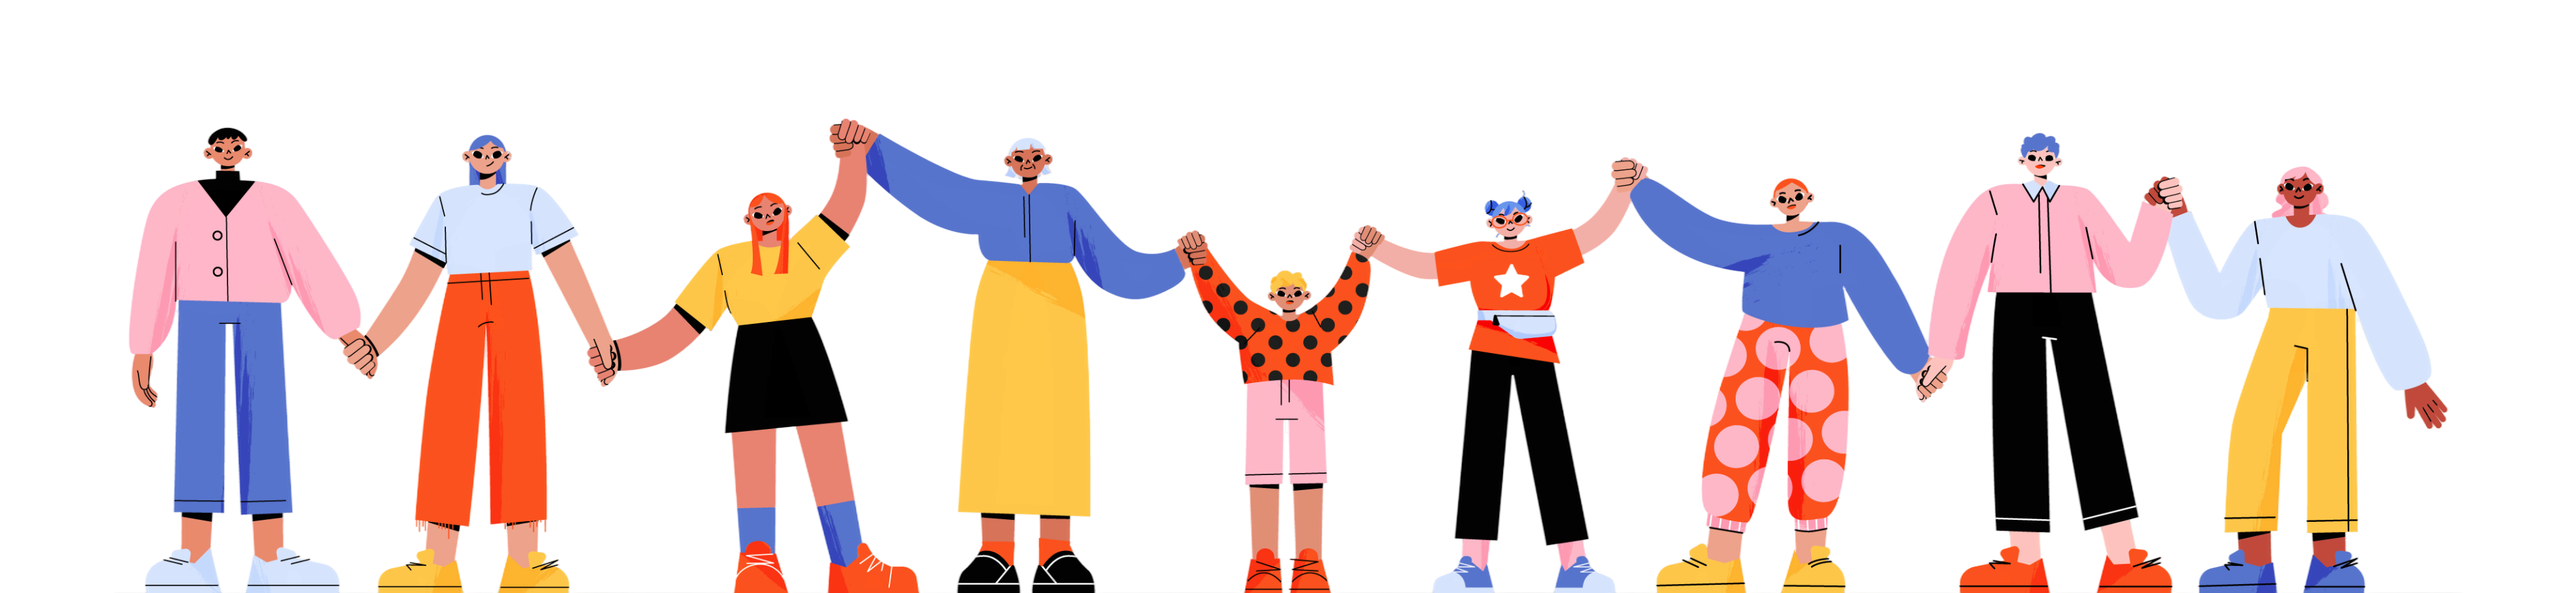
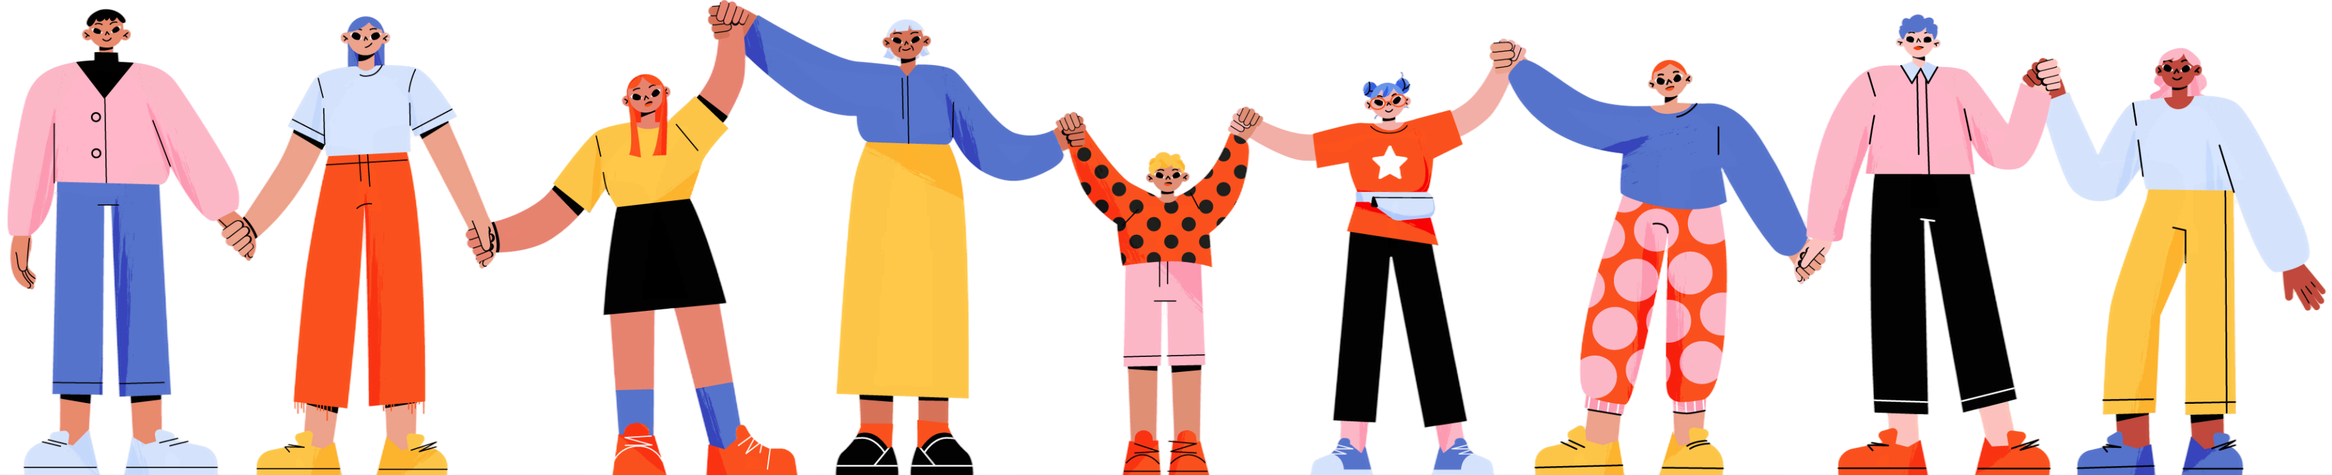
Made header image responsive and added header component to RegisterPage

diff --git a/frontend/Gr8/src/pages/register/RegisterPage.jsx b/frontend/Gr8/src/pages/register/RegisterPage.jsx
@@ -10,7 +10,8 @@ import hold1 from "../../assets/images/hold1.png";
 import hold2 from "../../assets/images/hold2.png";
 import hold3 from "../../assets/images/hold3.png";
 import groupPhoto from "../../assets/images/groupPhoto.png";
-
+import Header from "../../components/header/Header";
+import holdingHands2 from "../../assets/images/holdingHands2.png";
 
 // Registration Page: A layout wrapper that manages step state, 
 // dynamic image & title rendering, and navigation between form stages.
@@ -38,18 +39,10 @@ const RegisterPage = () => {
     }
 
     return (
-        <main>
-            <Grid container className="register-container">
+        <>
+            <Header mobileImage={getImageForStep(step)} desktopImage={holdingHands2} />
 
-                <Grid item xs={12} md={6} className="register-picture">
-                    <Box className="register-image-wrapper">
-                        <img
-                            src={getImageForStep(step)}
-                            alt={`Step ${step}`}
-                            className="register-image"
-                        />
-                    </Box>
-                </Grid>
+            <Grid container className="register-container">
                 <Grid className="register-page" item xs={12} md={6}>
                     <Box className="register-content">
                         <Typography variant="h4" >
@@ -64,7 +57,7 @@ const RegisterPage = () => {
                     </Box>
                 </Grid>
             </Grid>
-        </main>
+        </>
     );
 };
 

diff --git a/frontend/Gr8/src/pages/register/RegisterPage.css b/frontend/Gr8/src/pages/register/RegisterPage.css
@@ -3,11 +3,11 @@
     padding: 0;
     color: var(--color-text-main);
     position: relative;
-    height: 100vh;
     width: 100%;
     overflow: visible;
     display: flex;
     flex-direction: column;
+    margin-top: 24px;
 }
 
 .register-picture {
@@ -43,13 +43,14 @@
     justify-content: flex-start !important;
     align-items: center;
     margin-top: 0px;
+    overflow: hidden;
 }
 
 .register-content {
     width: 100%;
     max-width: 320px;
     text-align: center;
-    margin-top: -20px;
+    padding-bottom: 8px;
 }
 
 .register-step1 {
@@ -60,7 +61,6 @@
     width: 100%;
     min-height: 100%;
     margin-top: 0;
-    overflow: visible;
 }
 
 .register-step2 {

diff --git a/frontend/Gr8/src/components/header/Header.css b/frontend/Gr8/src/components/header/Header.css
@@ -11,17 +11,24 @@
 }
 
 .header-image-wrapper {
-    height: 100%;
+    width: 100%;
+    max-height: 100%;
     display: flex;
+    justify-content: center;
 }
 
 .header-image {
     width: 100%;
     max-width: 1440px;
+    height: auto;
+    max-height: 100%;
+    object-fit: contain;
+    display: block;
 }
 
 @media (min-width: 1024px) {
     .header-picture {
-        height: 300px;
+        height: 267px;
+        padding: 25px 0 0 0;
     }
 }

diff --git a/frontend/Gr8/src/pages/login/LoginPage.css b/frontend/Gr8/src/pages/login/LoginPage.css
@@ -4,6 +4,7 @@
     color: var(--color-text-main);
     width: 100%;
     display: flex;
+    margin-top: 30px;
 }
 
 .login-content {
@@ -12,5 +13,4 @@
     flex-direction: column;
     justify-content: flex-start;
     align-items: center;
-    margin-top: 30px;
 }
